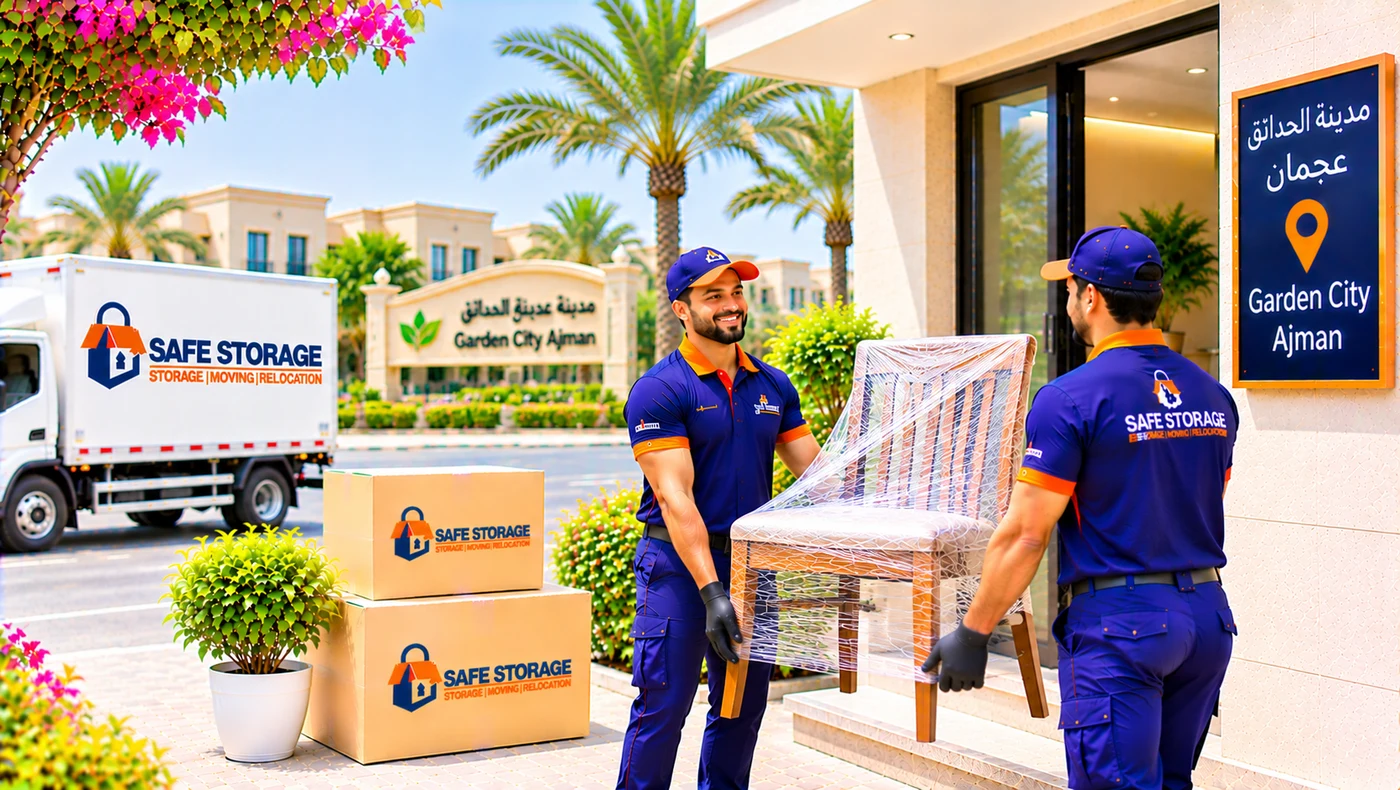
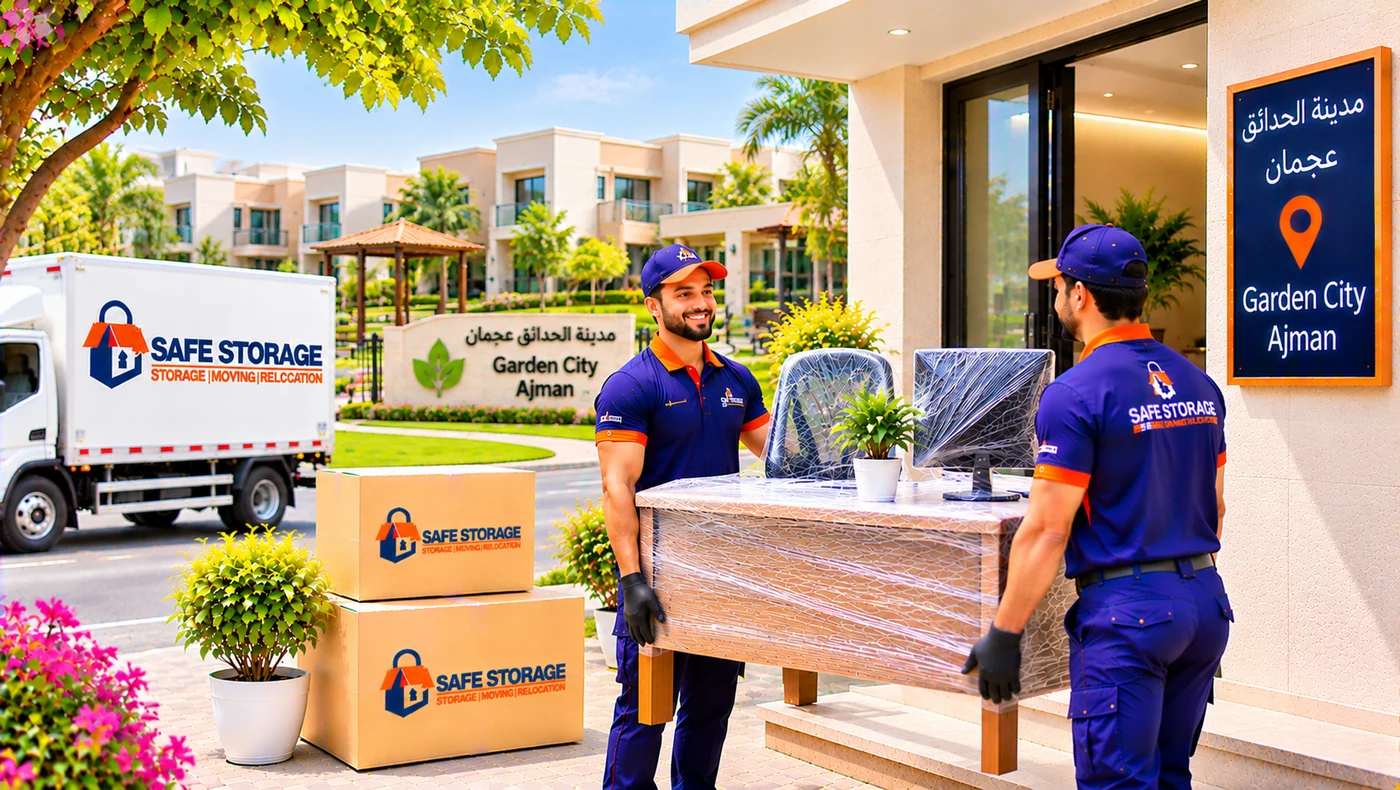
Garden City: the owner's new hero photo
Same filename, so the alt text is updated with it and the build clears
.next/cache/images — the optimiser keys on the URL and has served a
stale picture after a same-name replacement before.

diff --git a/components/locations/area-landing.tsx b/components/locations/area-landing.tsx
@@ -120,7 +120,7 @@ export const AREA_HERO: Record<string, { src: string; alt: string }> = {
   },
   "ajman/garden-city": {
     src: "/landing/garden-city-hero.webp",
-    alt: "A SafeStorage crew carrying a wrapped chair into a Garden City villa in Ajman, with the community entrance sign and palms behind",
+    alt: "A SafeStorage crew carrying a wrapped desk and office chair into a Garden City home in Ajman, with the community entrance sign and the townhouses behind",
   },
   "sharjah/abu-shagara": {
     src: "/landing/abu-shagara-hero.webp",
